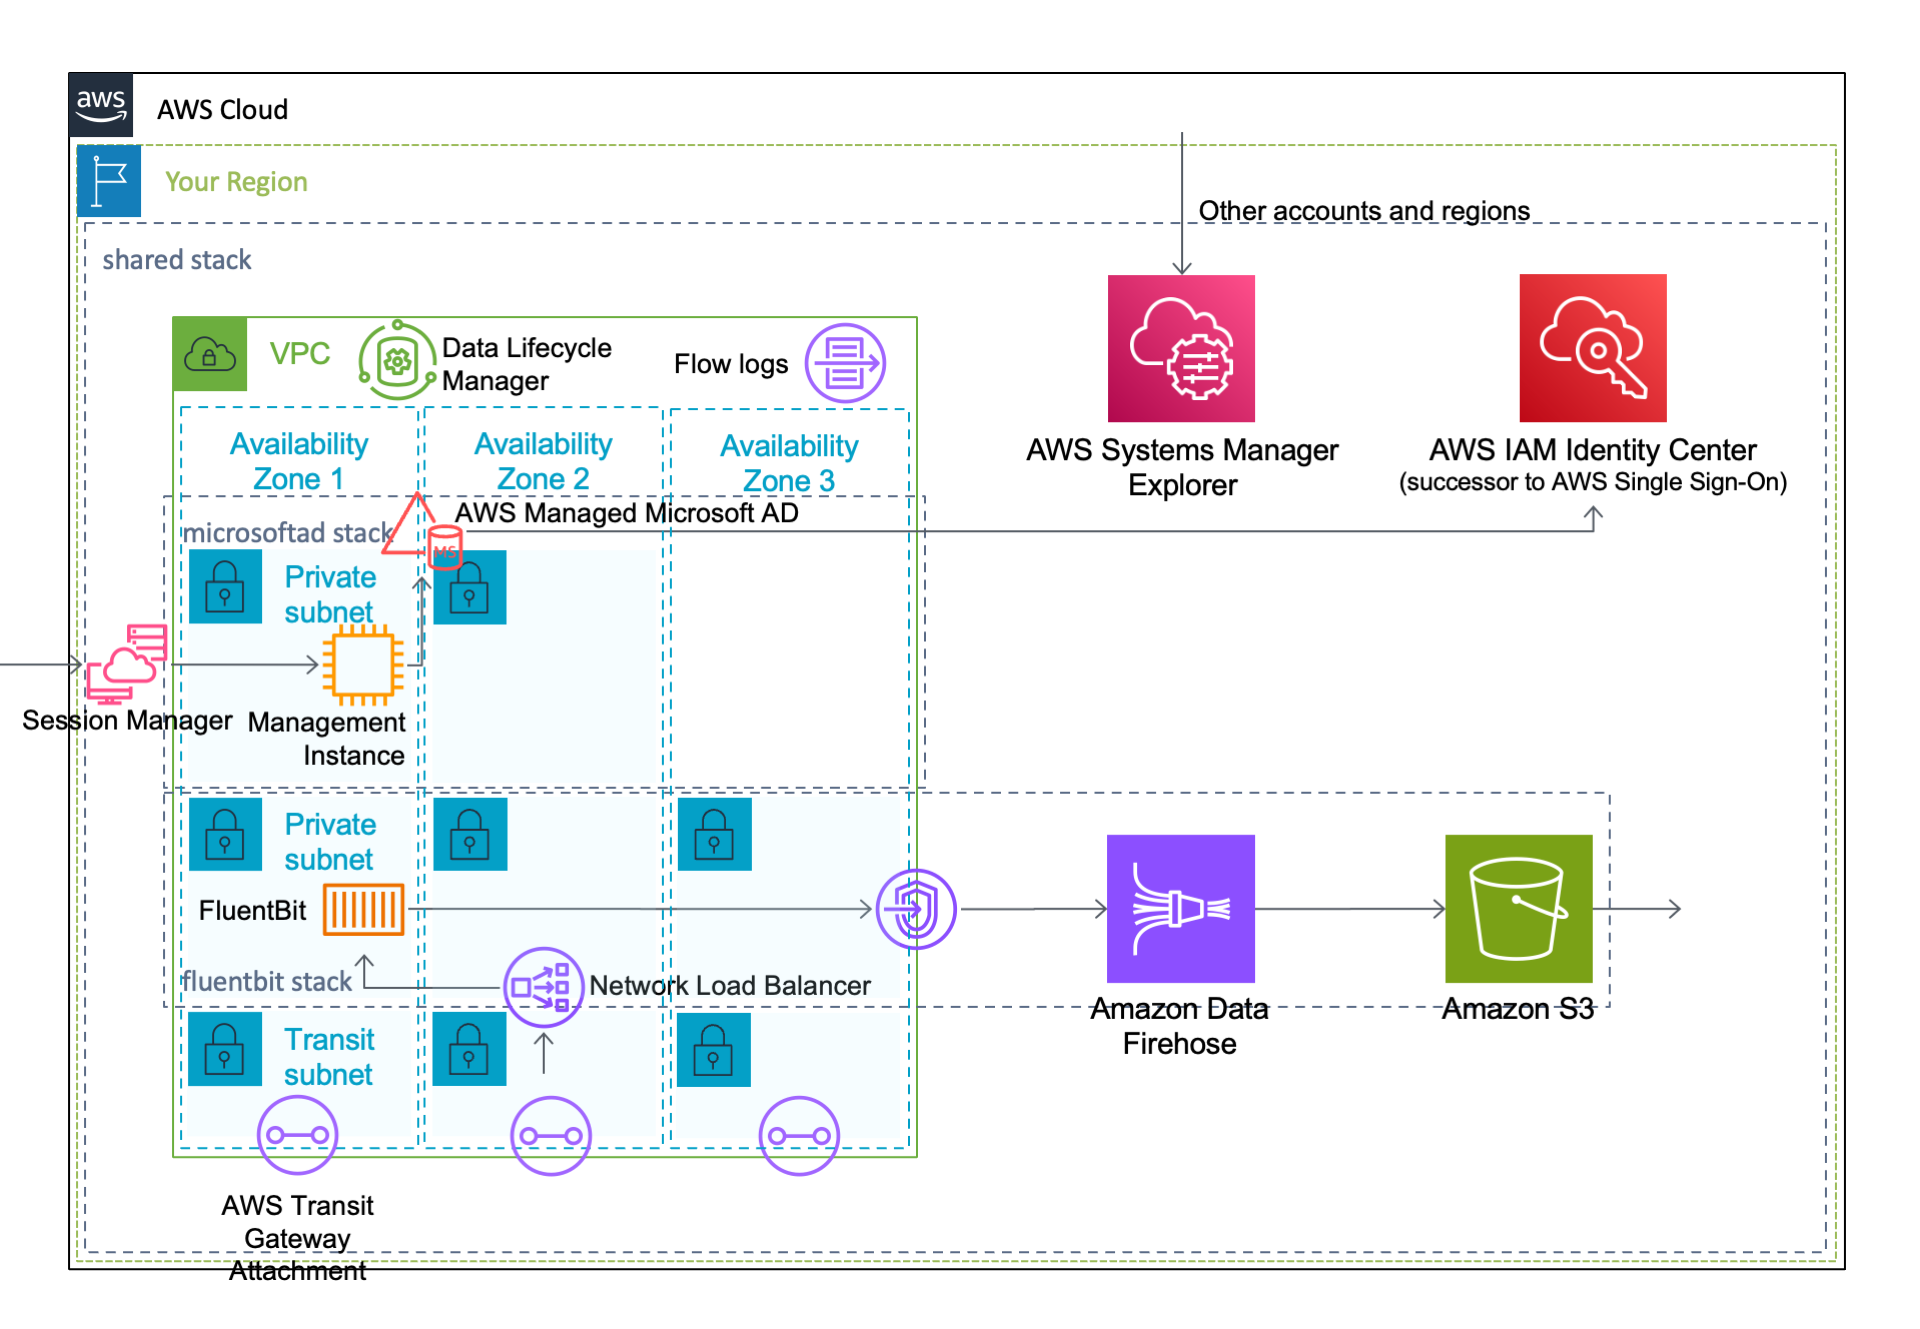
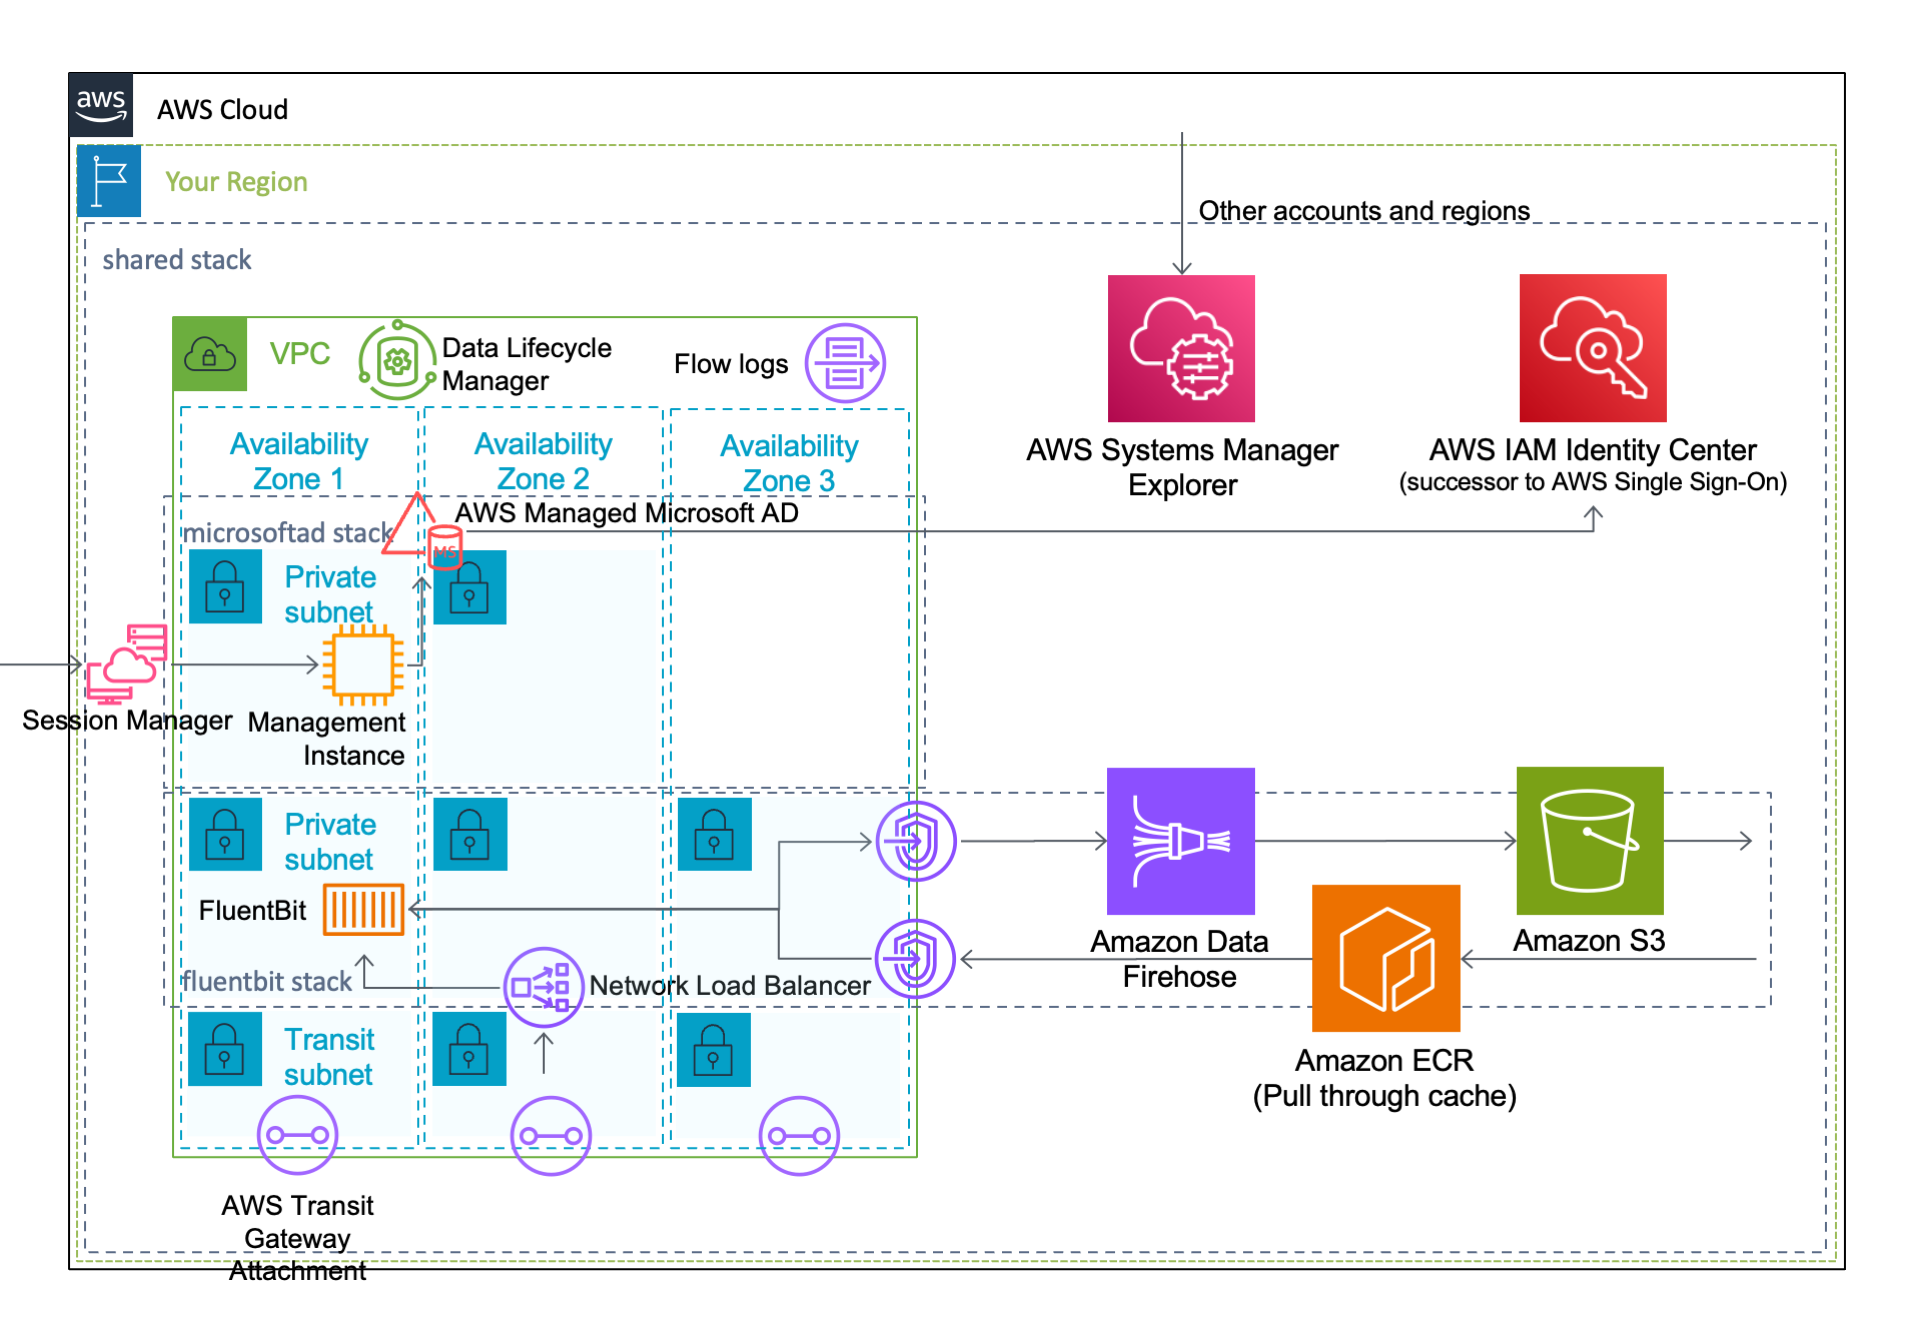
Update README files

Changed region(s): [[0.5625, 0.5553, 0.875, 0.833], [0.4375, 0.5862, 0.5, 0.7713], [0.375, 0.6787, 0.4062, 0.7096]]

diff --git a/shared/README.md b/shared/README.md
@@ -47,12 +47,13 @@ You can provide optional parameters as follows.
 | ActiveDirectoryShortName | String | CORP | ○ | The NetBIOS name for your domain |
 | ActiveDirectorySubnetCidrBlockForAz1 | String | 10.3.0.64/26 | ○ | The public subnet CIDR block at AZ1 |
 | ActiveDirectorySubnetCidrBlockForAz2 | String | 10.3.64.64/26 | ○ | The public subnet CIDR block at AZ2 |
+| ActiveDirectorySubnetCidrBlockForAz3 | String | 10.3.128.64/26 | ○ | The public subnet CIDR block at AZ3 |
 | BucketNameForArchive | String | | | The Amazon S3 bucket name for log archive |
+| DomainName | String | | | The private domain name which this VPC has |
 | FluentBitAddress1 | String | 10.3.0.114 | | The private IPv4 address for FluentBit |
 | FluentBitAddress2 | String | 10.3.64.114 | | The private IPv4 address for FluentBit |
 | FluentBitAddress3 | String | 10.3.128.114 | | The private IPv4 address for FluentBit |
 | FluentBitForSyslog | ENABLED / DISABLED | true | ○ | Whether to enable FluentBit for collecting syslog format logs |
-| DomainName | String | | | The private domain name which this VPC has |
 | IdentityCenterArn | String | | | The ARN of the IAM Identity Center instance under which the operation will be executed |
 | SubnetPrivateCidrBlockAz1 | String | 10.3.0.64/26 | ○ | The private subnet CIDR block at AZ1 |
 | SubnetPrivateCidrBlockAz2 | String | 10.3.64.64/26 | ○ | The private subnet CIDR block at AZ2 |
@@ -64,6 +65,33 @@ You can provide optional parameters as follows.
 | TransitGatewayId | String | | | The ID of a transit gateway |
 | TransitGatewayDestinationCidrBlock | String | | | The IPv4 CIDR block forward to TransitGateway |
 | VPCCidrBlock | String | 10.3.0.0/16 | ○ | The VPC CIDR block |
+
+### Fluentbit
+
+This template configures FluentBit for Syslog.
+
+| Name | Type | Default | Required | Details |  
+| --- | --- | --- | --- | --- |
+| AccountIdForArchive | String | | | The AWS account id for log archive |
+| AppPort | Number | 514 | ○ | The port on which the container is listening |
+| BucketNameForArchive | String | | | The Amazon S3 bucket name for log archive |
+| Cpu | Number | 1024 | ○ | The number of cpu units reserved for the container |
+| CpuArchitecture | String | ARM64 | The CPU architecture |
+| DesiredCapacity | String | 1 | ○ | The number of instantiations |
+| NlbIPv4AddressAz1 | String | 10.3.0.114 | The private IPv4 address for an internal load balancer |
+| NlbIPv4AddressAz2 | String | 10.3.64.114 | The private IPv4 address for an internal load balancer |
+| NlbIPv4AddressAz3 | String | 10.3.128.114 | The private IPv4 address for an internal load balancer |
+| RouteTableIdAz1 | String | | ○ | The route table id at AZ1 |
+| RouteTableIdAz2 | String | | ○ | The route table id at AZ2 | 
+| RouteTableIdAz3 | String | | ○ | The route table id at AZ3 | 
+| SubnetCidrBlockAz1 | String | 10.3.0.64/26 | ○ | The private subnet CIDR block at AZ1 |
+| SubnetCidrBlockAz2 | String | 10.3.64.64/26 | ○ | The private subnet CIDR block at AZ2 |
+| SubnetCidrBlockAz3 | String | 10.3.128.64/26 | ○ | The private subnet CIDR block at AZ3 |
+| SubnetIdAz1 | AWS::EC2::Subnet::Id | | ○ | The subnet id at AZ1 |
+| SubnetIdAz2 | AWS::EC2::Subnet::Id | | ○ | The subnet id at AZ2 |
+| SubnetIdAz3 | AWS::EC2::Subnet::Id | | ○ | The subnet id at AZ3 |
+| Memory | String | 3072 | ○ | The amount (in MiB) of memory to present to the container |
+| VPCId | AWS::EC2::VPC::Id | | ○ | VPC Id | 
 
 ### Trusted access with IAM Identity Center
 

diff --git a/shared/README_JP.md b/shared/README_JP.md
@@ -47,6 +47,7 @@ aws cloudformation deploy --template-file template.yaml --stack-name SharedServi
 | ActiveDirectoryShortName | String | CORP | ○ | NetBIOS 名 |
 | ActiveDirectorySubnetCidrBlockForAz1 | String | 10.1.0.64/26 | ○ | AZ1 の パブリックサブネットの CIDR ブロック |
 | ActiveDirectorySubnetCidrBlockForAz2 | String | 10.1.64.64/26 | ○ | AZ2 の パブリックサブネットの CIDR ブロック |
+| ActiveDirectorySubnetCidrBlockForAz3 | String | 10.1.64.128/26 | ○ | AZ3 の パブリックサブネットの CIDR ブロック |
 | BucketNameForArchive | String | | | ログアーカイブ用の S3 バケット名 |
 | DomainName | String | | | ドメイン名 |
 | FluentBitAddress1 | String | 10.3.0.114 | | FluentBit のプライベートアドレス |
@@ -64,6 +65,33 @@ aws cloudformation deploy --template-file template.yaml --stack-name SharedServi
 | TransitGatewayId | String | | | Transit Gateway の ID |
 | TransitGatewayDestinationCidrBlock | String | | | TransitGateway に転送する CIDR ブロック |
 | VPCCidrBlock | String | 10.3.0.0/16 | ○ | VPC の CIDR ブロック |
+
+### Fluentbit
+
+このテンプレートは、Syslog 転送用の `FluentBit` を構成します。
+
+| 名前 | タイプ | デフォルト値 | 必須 | 詳細 |
+| --- | --- | --- | --- | --- |
+| AccountIdForArchive | String | | | ログアーカイブアカウント ID |
+| AppPort | Number | 514 | ○ | コンテナの Listen ポート |
+| BucketNameForArchive | String | | | ログアーカイブ用の S3 バケット名 |
+| Cpu | Number | 1024 | ○ | コンテナの CPU ユニット数 |
+| CpuArchitecture | String | ARM64 | CPU アーキテクチャ |
+| DesiredCapacity | String | 1 | ○ | 希望するインスタンスの数 |
+| NlbIPv4AddressAz1 | String | 10.3.0.114 | NLB に付与する IP アドレス（AZ1） |
+| NlbIPv4AddressAz2 | String | 10.3.64.114 | NLB に付与する IP アドレス（AZ2） |
+| NlbIPv4AddressAz3 | String | 10.3.128.114 | NLB に付与する IP アドレス（AZ3） |
+| RouteTableIdAz1 | String | | ○ | AZ1 のルートテーブル ID |
+| RouteTableIdAz2 | String | | ○ | AZ2 のルートテーブル ID | 
+| RouteTableIdAz3 | String | | ○ | AZ3 のルートテーブル ID | 
+| SubnetCidrBlockAz1 | String | 10.3.0.64/26 | ○ | AZ1 の プライベートサブネットの CIDR ブロック |
+| SubnetCidrBlockAz2 | String | 10.3.64.64/26 | ○ | AZ2 の プライベートサブネットの CIDR ブロック |
+| SubnetCidrBlockAz3 | String | 10.3.128.64/26 | ○ | AZ3 の プライベートサブネットの CIDR ブロック |
+| SubnetIdAz1 | AWS::EC2::Subnet::Id | | ○ | AZ1 のサブネット ID |
+| SubnetIdAz2 | AWS::EC2::Subnet::Id | | ○ | AZ2 のサブネット ID |
+| SubnetIdAz3 | AWS::EC2::Subnet::Id | | ○ | AZ3 のサブネット ID |
+| Memory | String | 3072 | ○ | コンテナのメモリ(MiB) |
+| VPCId | AWS::EC2::VPC::Id | | ○ | VPC Id | 
 
 ### IAM Identity Center の信頼されたアクセス
 
